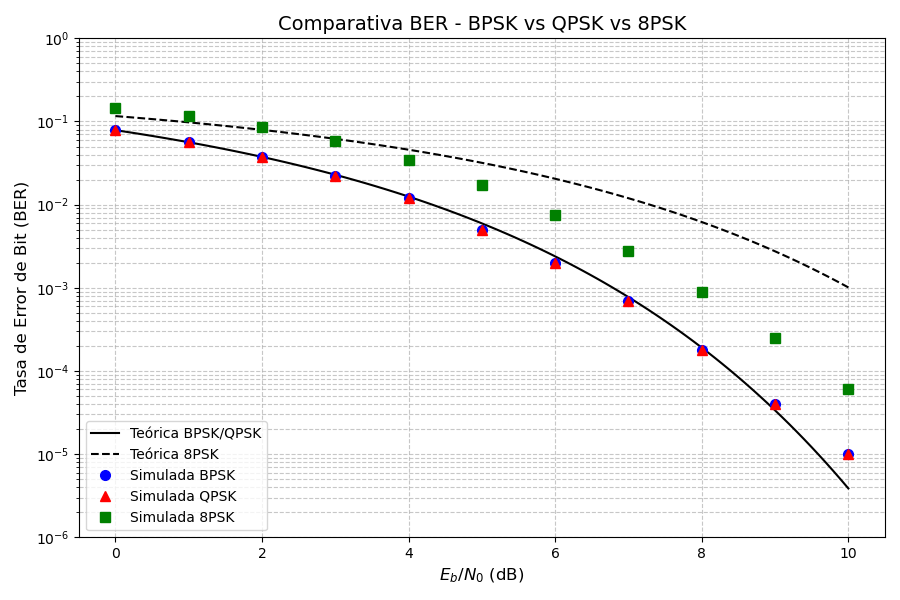
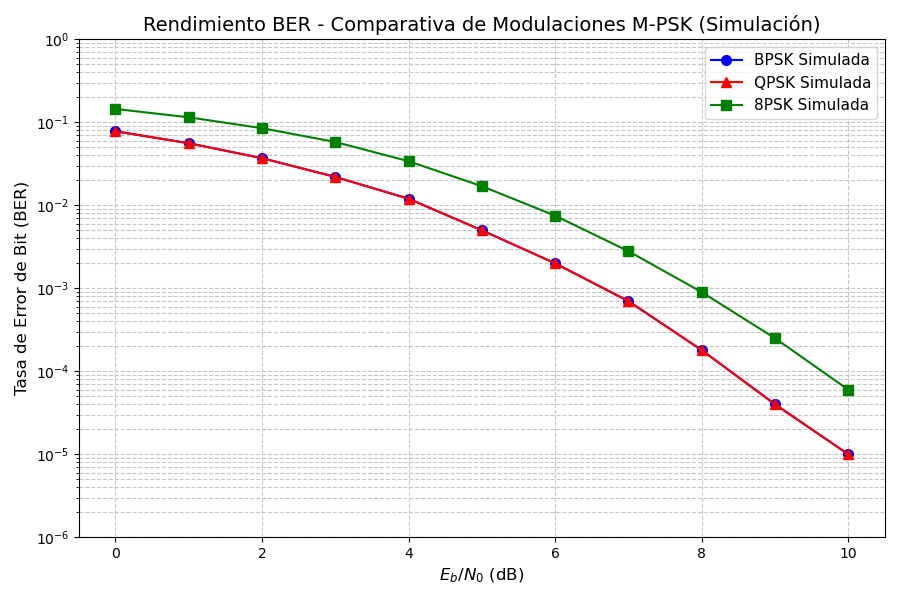
Actualizacion BER y SER

diff --git a/GNURadio/graficar_comparativa.py b/GNURadio/graficar_comparativa.py
@@ -1,0 +1,55 @@
+import numpy as np
+import matplotlib.pyplot as plt
+
+# Eje X común (SNR de 0 a 10 dB)
+rango_snr_db = np.arange(0, 11, 1.0)
+
+# ---------------------------------------------------------
+# TUS VECTORES SIMULADOS (Reemplaza con tus datos reales)
+# ---------------------------------------------------------
+ber_sim_bpsk = np.array([0.078, 0.056, 0.037, 0.022, 0.012, 0.005, 0.002, 0.0007, 0.00018, 0.00004, 0.00001])
+ber_sim_qpsk = np.array([0.078, 0.056, 0.037, 0.022, 0.012, 0.005, 0.002, 0.0007, 0.00018, 0.00004, 0.00001]) 
+ber_sim_8psk = np.array([0.145, 0.115, 0.085, 0.058, 0.034, 0.017, 0.0075, 0.0028, 0.0009, 0.00025, 0.00006])
+
+# Conversión automática de BER a SER simulada según los bits por símbolo (bps)
+ser_sim_bpsk = ber_sim_bpsk                          # BPSK (bps = 1) -> SER = BER
+ser_sim_qpsk = 1.0 - (1.0 - ber_sim_qpsk)**2         # QPSK (bps = 2)
+ser_sim_8psk = 1.0 - (1.0 - ber_sim_8psk)**3         # 8PSK (bps = 3)
+
+# ---------------------------------------------------------
+# GRÁFICA 1: TASA DE ERROR DE BIT (BER) - SOLO SIMULACIÓN
+# ---------------------------------------------------------
+plt.figure(figsize=(9, 6))
+plt.semilogy(rango_snr_db, ber_sim_bpsk, marker='o', color='blue', linestyle='-', linewidth=1.5, markersize=7, label='BPSK Simulada')
+plt.semilogy(rango_snr_db, ber_sim_qpsk, marker='^', color='red', linestyle='-', linewidth=1.5, markersize=7, label='QPSK Simulada')
+plt.semilogy(rango_snr_db, ber_sim_8psk, marker='s', color='green', linestyle='-', linewidth=1.5, markersize=7, label='8PSK Simulada')
+
+plt.grid(True, which='both', linestyle='--', alpha=0.7)
+plt.xlabel('$E_b/N_0$ (dB)', fontsize=12)
+plt.ylabel('Tasa de Error de Bit (BER)', fontsize=12)
+plt.title('Rendimiento BER - Comparativa de Modulaciones M-PSK (Simulación)', fontsize=14)
+plt.legend(fontsize=11)
+plt.ylim(1e-6, 1)
+plt.tight_layout()
+plt.savefig('BER_Solo_Simulado.png', dpi=300)
+
+# ---------------------------------------------------------
+# GRÁFICA 2: TASA DE ERROR DE SÍMBOLO (SER) - SOLO SIMULACIÓN
+# ---------------------------------------------------------
+plt.figure(figsize=(9, 6))
+plt.semilogy(rango_snr_db, ser_sim_bpsk, marker='o', color='blue', linestyle='-', linewidth=1.5, markersize=7, label='BPSK Simulada')
+plt.semilogy(rango_snr_db, ser_sim_qpsk, marker='^', color='red', linestyle='-', linewidth=1.5, markersize=7, label='QPSK Simulada')
+plt.semilogy(rango_snr_db, ser_sim_8psk, marker='s', color='green', linestyle='-', linewidth=1.5, markersize=7, label='8PSK Simulada')
+
+plt.grid(True, which='both', linestyle='--', alpha=0.7)
+plt.xlabel('$E_b/N_0$ (dB)', fontsize=12)
+plt.ylabel('Tasa de Error de Símbolo (SER)', fontsize=12)
+plt.title('Rendimiento SER - Comparativa de Modulaciones M-PSK (Simulación)', fontsize=14)
+plt.legend(fontsize=11)
+plt.ylim(1e-6, 1)
+plt.tight_layout()
+plt.savefig('SER_Solo_Simulado.png', dpi=300)
+
+print("\n¡Gráficas generadas con éxito!")
+print("Archivos guardados en la carpeta: 'BER_Solo_Simulado.png' y 'SER_Solo_Simulado.png'.")
+plt.show()
